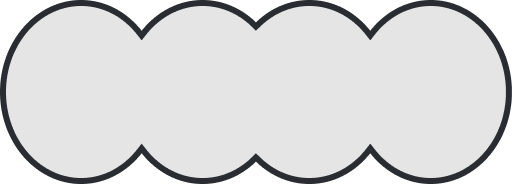
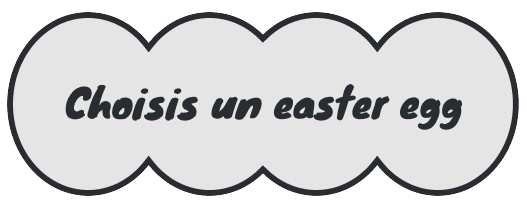
new design home page

Changed region(s): [[0.0, 0.0, 1.0, 1.0], [0.125, 0.4076, 0.875, 0.625]]

diff --git a/ycap-pwa/src/pages/home/Home.js b/ycap-pwa/src/pages/home/Home.js
@@ -284,7 +284,6 @@ function Home() {
             <div className="middle-zone">
               <img src={indicatorchoix} alt="" className="centered-image-middle" />
               <img src={headHome} alt="" className='headHome-position'/>
-              <div className="text-overlay">Choisis un easter egg</div>
             </div>
             <div className="right-zone">
               <img src={croix} alt="" className="centered-image" />
@@ -309,7 +308,7 @@ function Home() {
 
         <footer className="footer">
           <button className="footer-button" onClick={handleToggleMenu}>
-            <img src={burger} alt="" className="centered-image" />
+            <img src={burger} alt="" className="centered-image-footer" />
           </button>
           <button className="footer-button central">ynov.com</button>
           <button className="footer-button">i</button>
